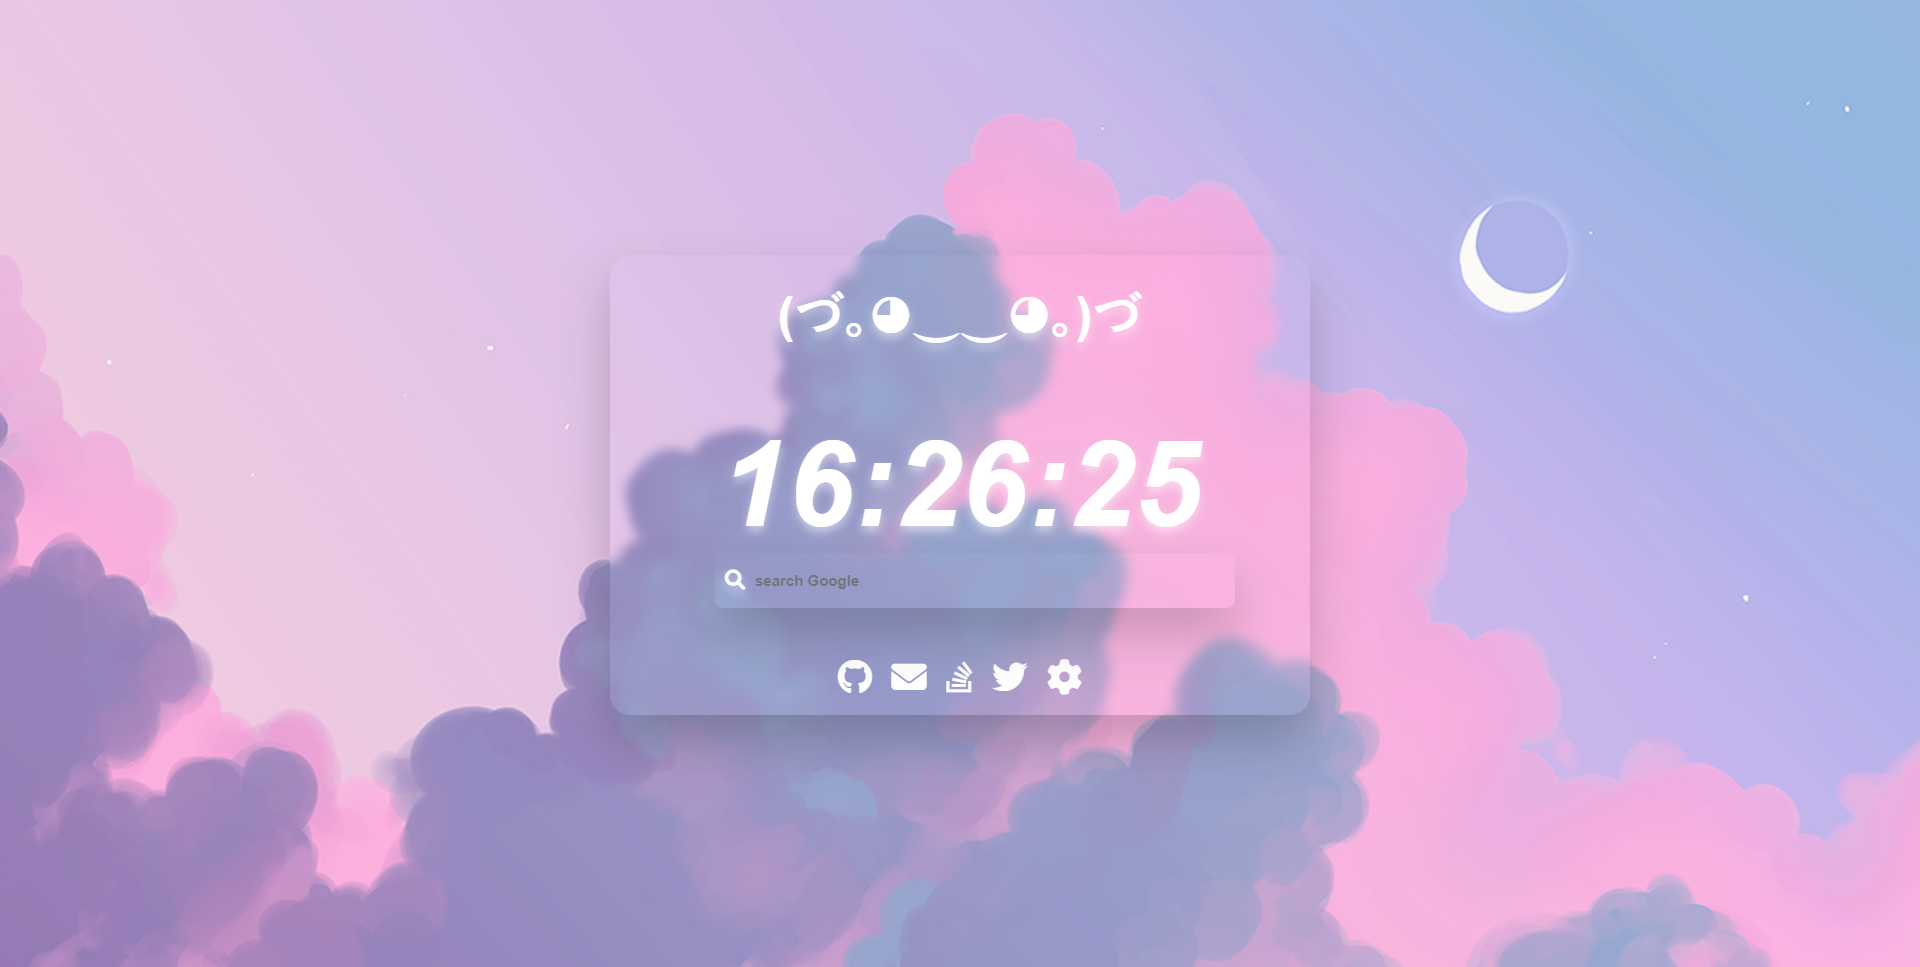
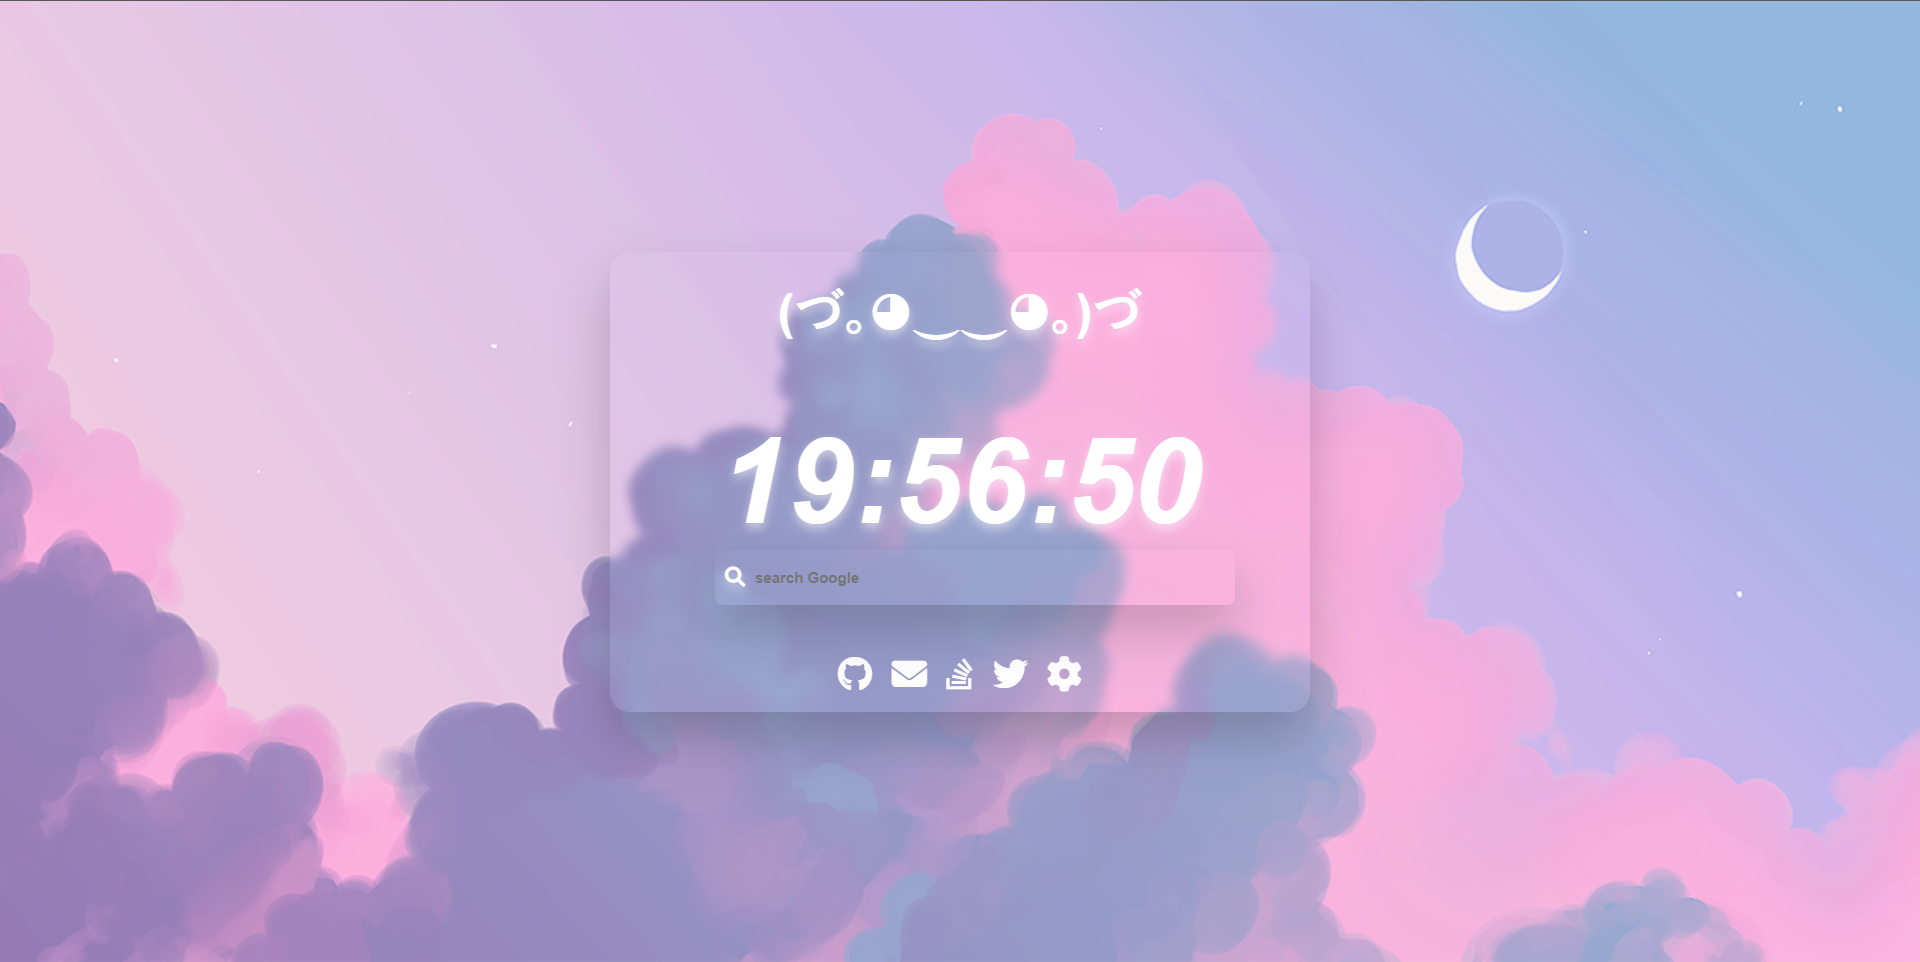
Updated Settings

diff --git a/sady/js/functions.js b/sady/js/functions.js
@@ -24,14 +24,16 @@ let isLeftMenuActive = false
 
 settingsButton.addEventListener('click', () => {
     if(!isLeftMenuActive) {
-        Sidebar.style.width = '240px';
+        Sidebar.style.width = '300px';
         settingsForm.style.opacity = "1";
 
+        settingsButton.classList.add("clicked")
         isLeftMenuActive = true;
     } else {
         Sidebar.style.width = '0px';
         settingsForm.style.opacity = "0";
 
+        settingsButton.classList.remove("clicked")
         isLeftMenuActive = false;
     }
 })
@@ -97,6 +99,7 @@ if(window.localStorage.getItem("heading")) {
 
 if(window.localStorage.getItem("background")) {
     document.body.style.background = `url("${window.localStorage.getItem("background")}")`
+    backgroundLink.value = window.localStorage.getItem("background");
 }
 
 if(window.localStorage.getItem("headerColor")) {
@@ -113,4 +116,42 @@ if(window.localStorage.getItem("bookmarksColor")) {
     bookmarks.getElementsByTagName("a")[2].style.color = window.localStorage.getItem("bookmarksColor");
     bookmarks.getElementsByTagName("a")[3].style.color = window.localStorage.getItem("bookmarksColor");
     bookmarks.getElementsByTagName("a")[4].style.color = window.localStorage.getItem("bookmarksColor");
+}
+
+/* ============================== Reset ============================== */
+
+const resetAll = document.getElementById("resetAll")
+const resetColors = document.getElementById("resetColors")
+
+resetAll.addEventListener("click", () => {
+    window.localStorage.clear();
+    location.reload();
+})
+
+resetColors.addEventListener("click", () => {
+    window.localStorage.removeItem("bookmarksColor");
+    window.localStorage.removeItem("clockColor");
+    window.localStorage.removeItem("headerColor");
+    window.localStorage.removeItem("glowColor");
+    location.reload();
+})
+
+/* ============================== Glow ============================== */
+const glowColor = document.querySelectorAll(".glow-font")
+const glow = document.getElementById("glow")
+
+glow.addEventListener("keypress", (e) => {
+    if(glow.value) {
+        glowColor.forEach(glow1 => {
+            glow1.style.textShadow = `0 5px 15px ${glow.value}`
+        })
+
+        window.localStorage.setItem("glowColor", glow.value)
+    }
+})
+
+if(window.localStorage.getItem("glowColor")) {
+    glowColor.forEach(glow1 => {
+        glow1.style.textShadow = `0 5px 15px ${window.localStorage.getItem("glowColor")}`
+    })
 }

diff --git a/sady/styles/style.css b/sady/styles/style.css
@@ -56,7 +56,7 @@ h4 {
     color: white;
     width: 170px;
     height: 25px;
-    box-shadow: 0px 15px 10px rgba(0, 0, 0, 0.192);
+    border: solid 1px white;
     margin-left: 20px;
 }
 
@@ -187,6 +187,8 @@ h4 {
     display: flex;
     flex-wrap: wrap;
     flex-direction: column;
+
+    z-index: 200;
 }
 
 .leftMenu .settings {
@@ -224,6 +226,26 @@ h4 {
 }
 
 #updateBg:hover {
+    transform: translateY(-5px);
+    cursor: pointer;
+}
+
+/* ============================== Reset ============================== */
+#resetAll {
+    transform: translateY(-10px);
+    transition: .3s ease-in-out;
+}
+
+#resetAll:hover {
+    transform: translateY(-5px);
+    cursor: pointer;
+}
+
+#resetColors {
+    transition: .3s ease-in-out;
+}
+
+#resetColors:hover {
     transform: translateY(-5px);
     cursor: pointer;
 }

diff --git a/sady/index.html b/sady/index.html
@@ -43,6 +43,15 @@
                 <label class="h3 label">Background</label>
                 <input type="text" id="bgLink" placeholder="link" class="txt">
                 <input type="button" id="updateBg" class="btn acrylic" value="Update">
+
+                <div class="line"></div>
+
+                <label class="h3 label">Misc</label>
+                <h4>Glow</h4>
+                <input type="text" id="glow" placeholder="color" value="#fff" class="txt">
+                <h4>Reset</h4>
+                <input type="button" id="resetColors" class="btn acrylic" value="Reset Colors">
+                <input type="button" id="resetAll" class="btn acrylic" value="Reset All">
             </form>
         </div>
 
